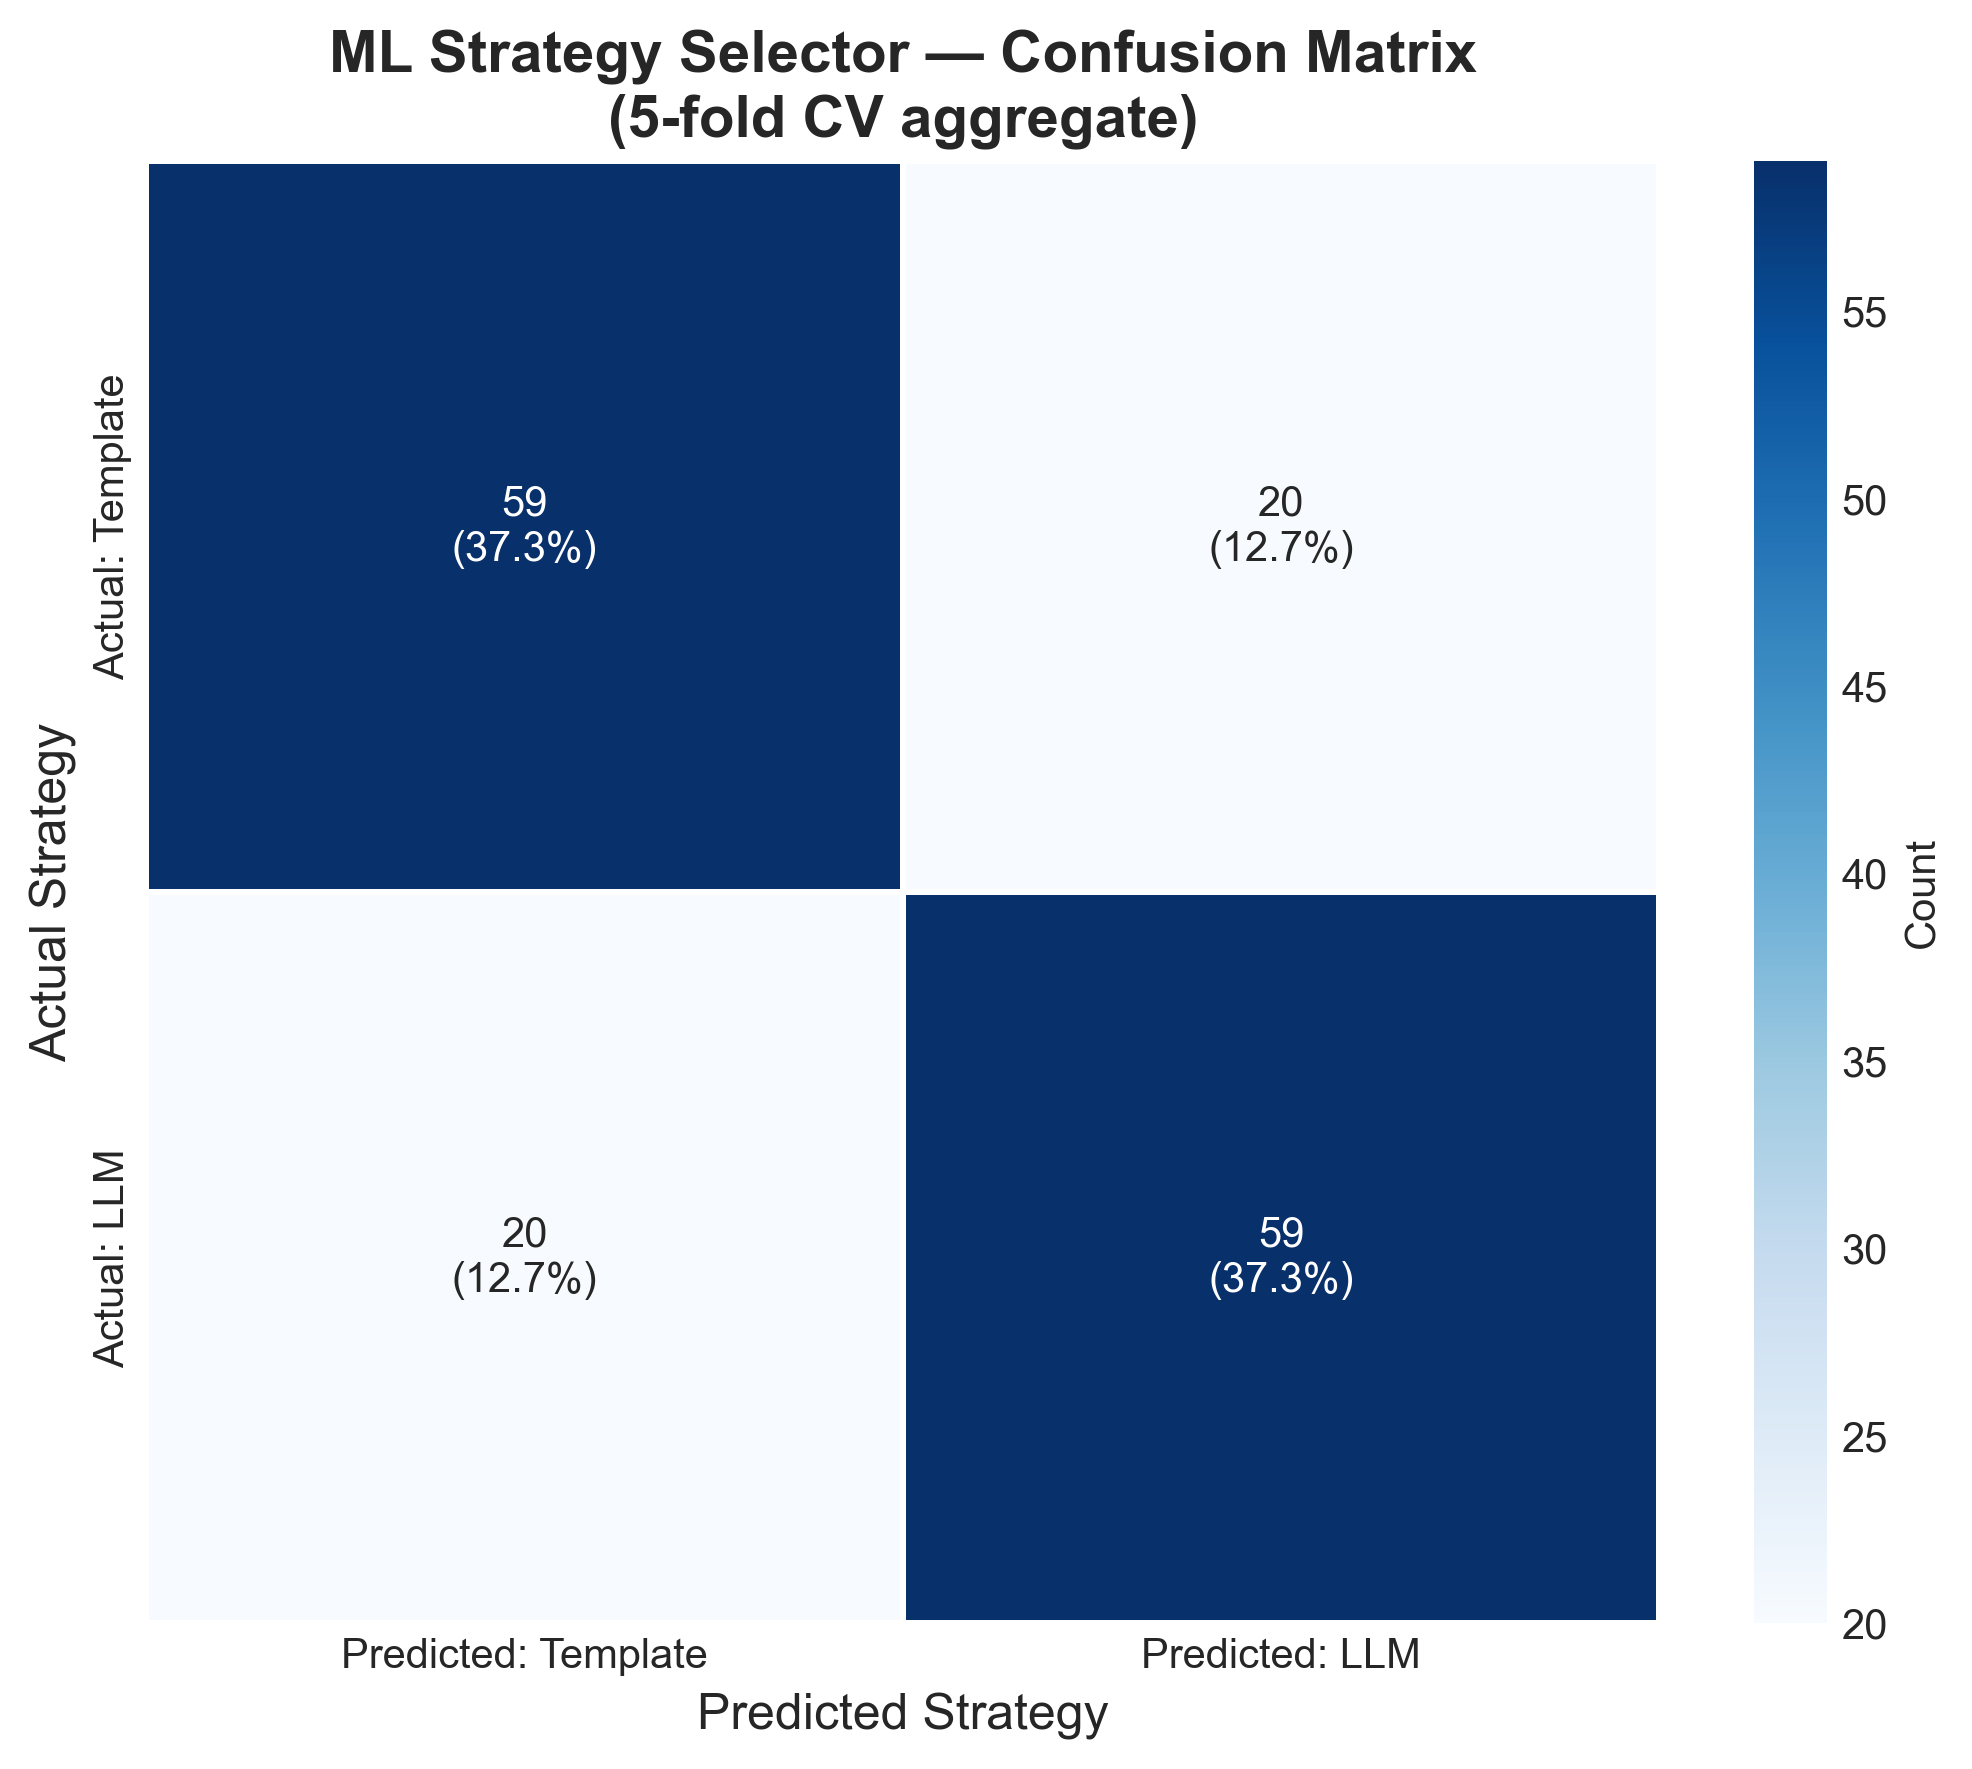
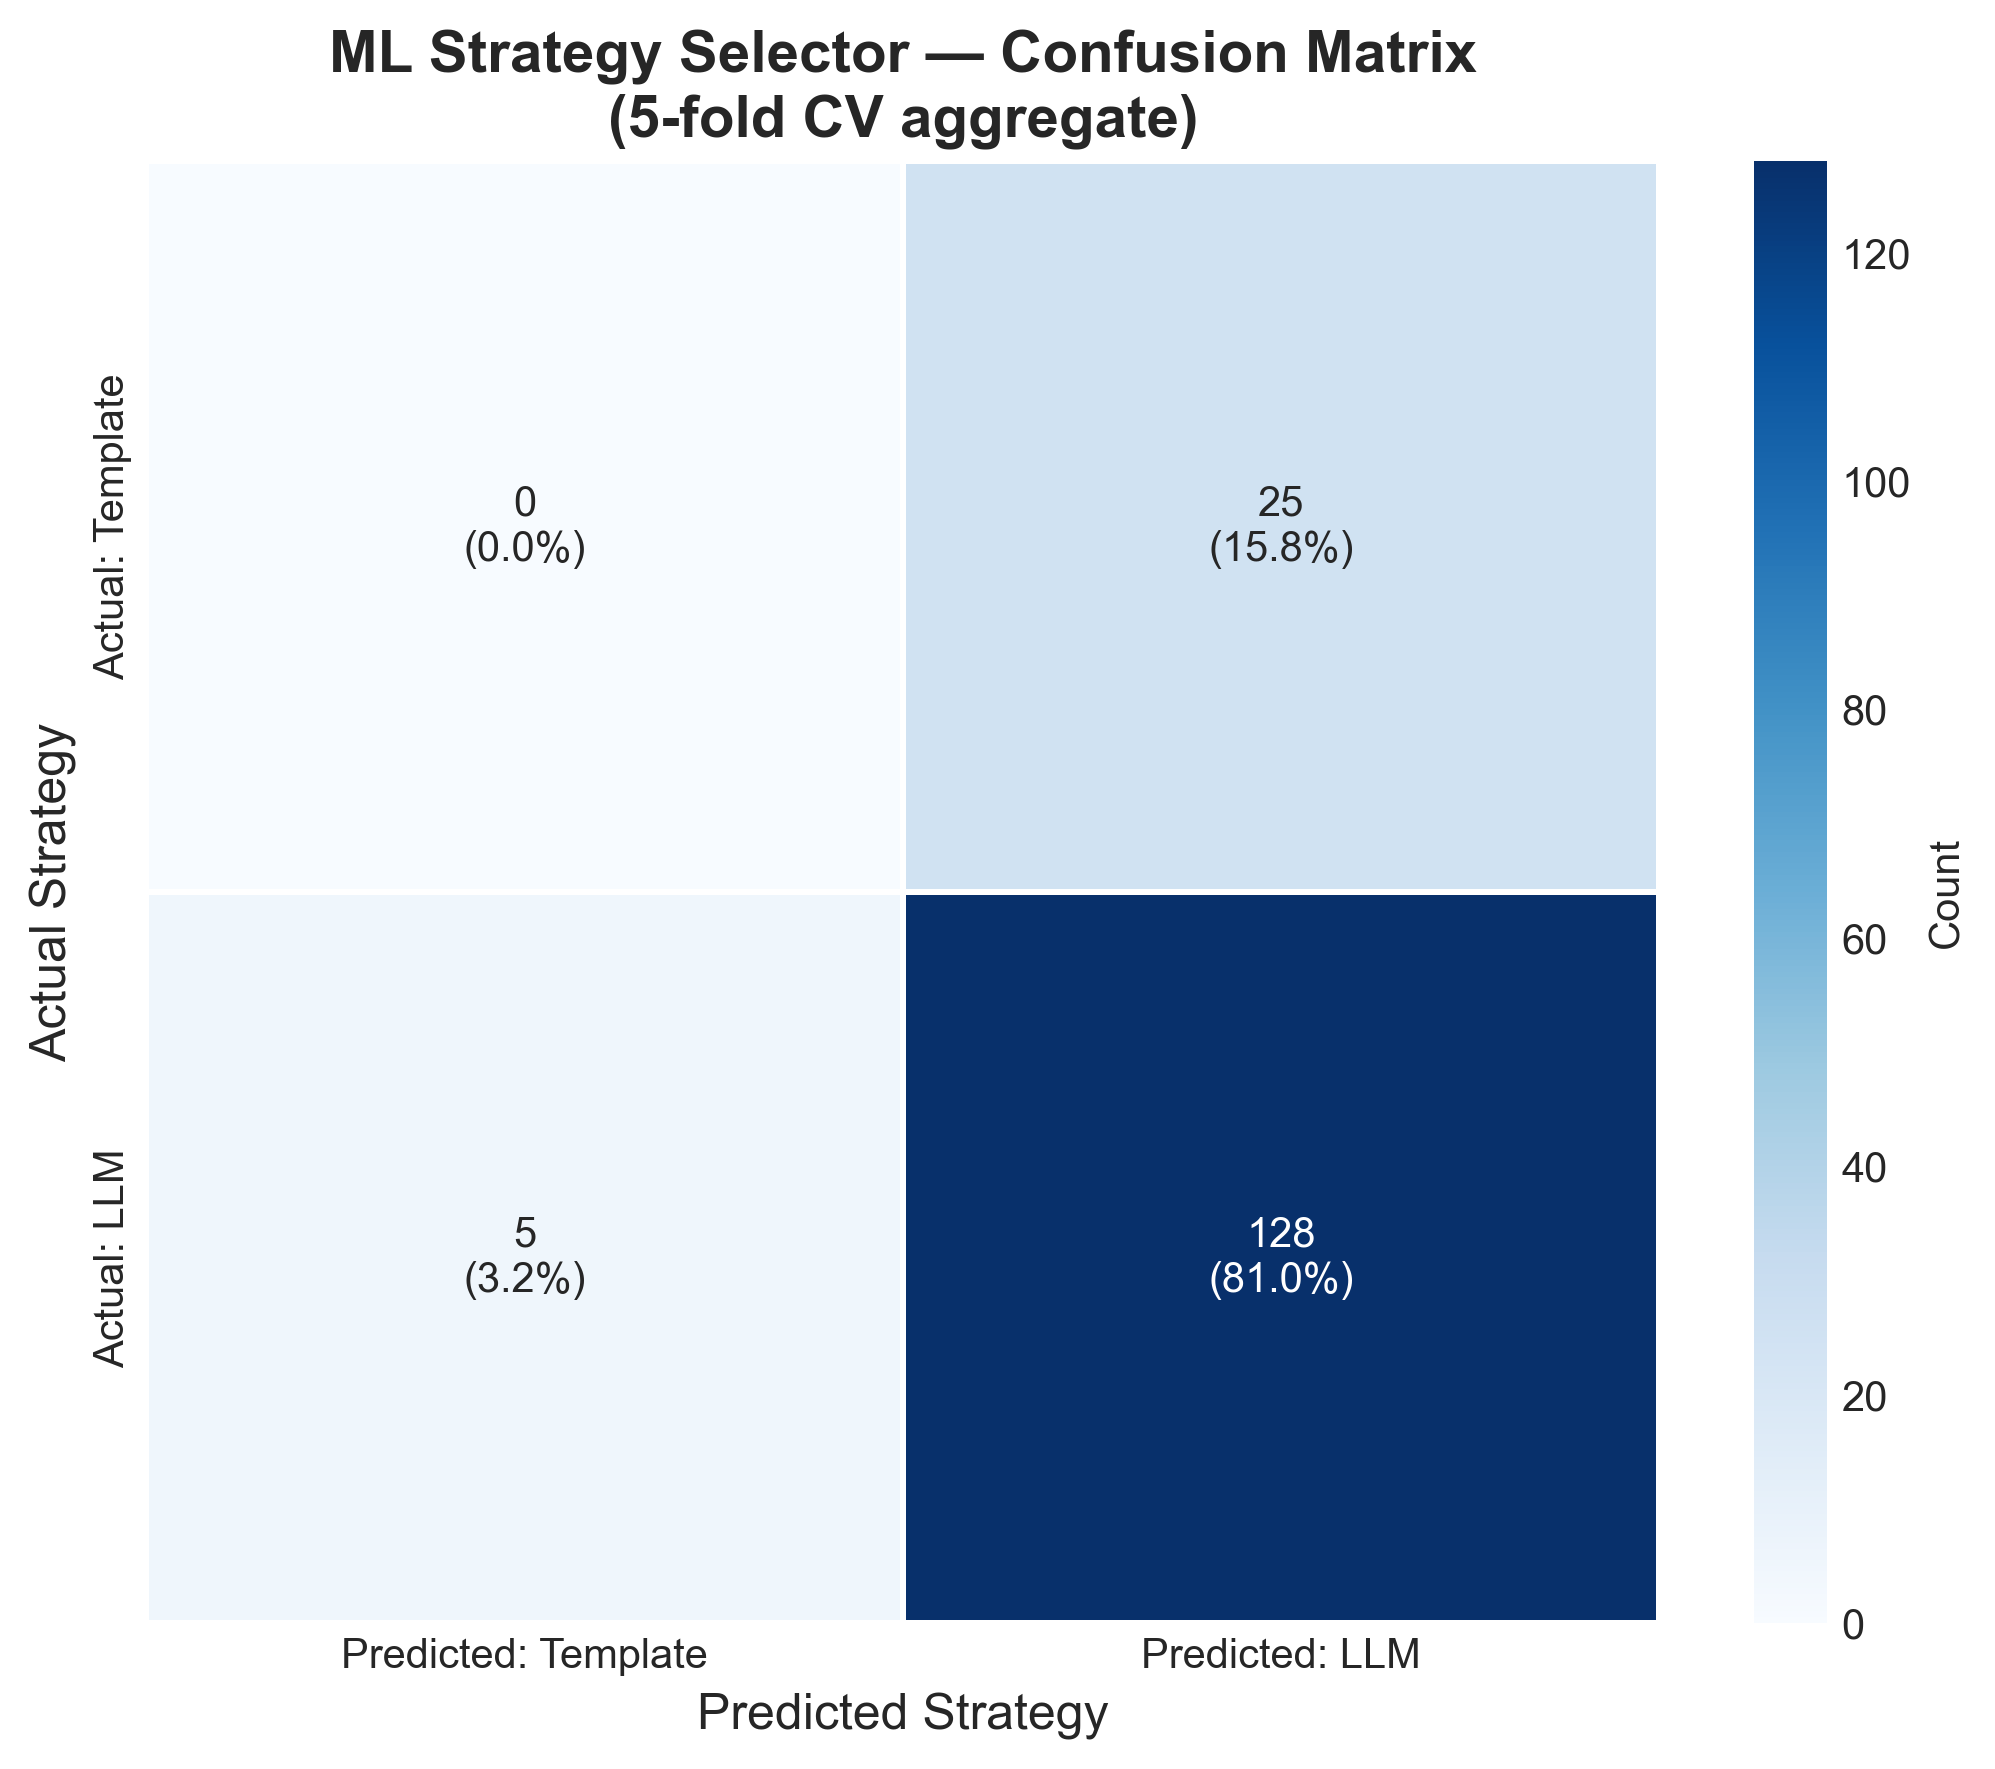
update graphs

diff --git a/run_evaluation.py b/run_evaluation.py
@@ -29,7 +29,9 @@ from mltest.visualization import (
     create_architecture_diagram,
     create_dataset_composition_chart,
     create_feature_importance_chart,
+    create_ml_confusion_matrix,
     create_ml_charts,
+    remove_legacy_comparison_graphs,
     create_screening_charts,
 )
 from mltest.ml import MLStrategySelector
@@ -321,11 +323,8 @@ def run_full_evaluation(
 
     print("\n" + analyzer.generate_report())
 
-    print("\nGenerating visualizations...")
-    with open(results_file, encoding="utf-8") as handle:
-        data = json.load(handle)
-    create_all_charts(data, graphs_dir)
-    print(f"Graphs saved to: {graphs_dir}")
+    remove_legacy_comparison_graphs(graphs_dir)
+    print(f"Graphs directory cleaned of legacy comparison outputs: {graphs_dir}")
 
     print("\n" + "=" * 60)
     print("EVALUATION COMPLETE")
@@ -489,11 +488,8 @@ def generate_correlated_results():
     results_file = analyzer.save_results("results.json")
     print(f"\nResults saved to: {results_file}")
     print("\n" + analyzer.generate_report())
-
-    with open(results_file) as f:
-        data = json.load(f)
-    create_all_charts(data, graphs_dir)
-    print(f"Charts saved to: {graphs_dir}")
+    remove_legacy_comparison_graphs(graphs_dir)
+    print(f"Legacy comparison charts removed from: {graphs_dir}")
 
 
 def _simulate_llm_result(func_name: str, language: str) -> FunctionCoverage:
@@ -579,13 +575,8 @@ def generate_demo_results():
     # Generate report
     print("\n" + analyzer.generate_report())
 
-    # Generate visualizations
-    print("\nGenerating visualizations...")
-    with open(results_file) as f:
-        data = json.load(f)
-
-    create_all_charts(data, graphs_dir)
-    print(f"Graphs saved to: {graphs_dir}")
+    remove_legacy_comparison_graphs(graphs_dir)
+    print(f"Legacy comparison charts removed from: {graphs_dir}")
 
     # List generated files
     print("\nGenerated files:")
@@ -924,7 +915,12 @@ def generate_llm_testability_artifacts(
         selector.get_feature_importances().to_dict(orient="records"),
         graphs_dir / "feature_importance.png",
     )
+    create_ml_confusion_matrix(
+        artifact.get("confusion_matrix_cv_aggregate", [[0, 0], [0, 0]]),
+        graphs_dir / "confusion_matrix.png",
+    )
     create_screening_charts(report, graphs_dir)
+    remove_legacy_comparison_graphs(graphs_dir)
 
     print("=" * 60)
     print("LLM TESTABILITY ARTIFACTS GENERATED")

diff --git a/mltest/visualization.py b/mltest/visualization.py
@@ -15,8 +15,31 @@ plt.style.use('seaborn-v0_8-whitegrid')
 sns.set_palette("husl")
 
 
+LEGACY_COMPARISON_GRAPH_NAMES = [
+    "summary_dashboard.png",
+    "coverage_comparison.png",
+    "coverage_distribution.png",
+    "execution_time.png",
+    "improvement.png",
+    "language_comparison.png",
+    "pass_rate.png",
+    "benchmark_breakdown.png",
+    "ml_vs_baselines.png",
+    "strategy_distribution.png",
+]
+
+
+def remove_legacy_comparison_graphs(output_dir: Path):
+    """Delete legacy routing/comparison graphs that no longer fit the thesis framing."""
+    output_dir = Path(output_dir)
+    for name in LEGACY_COMPARISON_GRAPH_NAMES:
+        path = output_dir / name
+        if path.exists():
+            path.unlink()
+
+
 def create_all_charts(data: Dict, output_dir: Path):
-    """Generate all visualization charts from results data"""
+    """Generate the legacy comparison chart set from results data."""
     output_dir = Path(output_dir)
     output_dir.mkdir(parents=True, exist_ok=True)
 